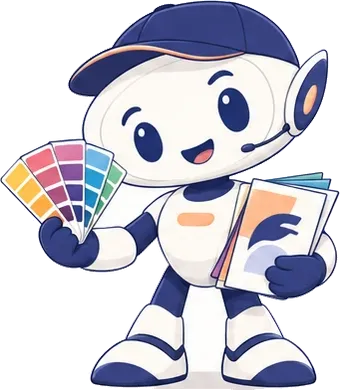
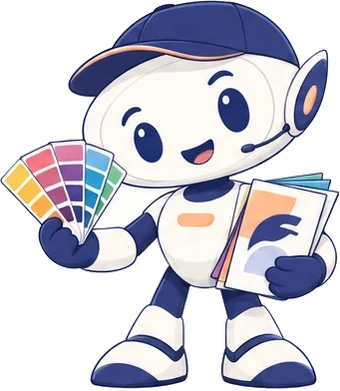
Mascote do Prontyn: recorte entre as pernas e proporção das imagens

diff --git a/scripts/mascote.py b/scripts/mascote.py
@@ -1,0 +1,37 @@
+"""Remove o fundo branco que sobrou entre as pernas do mascote do Prontyn e gera o webp."""
+import sys
+from PIL import Image
+
+src, out = sys.argv[1], sys.argv[2]
+im = Image.open(src).convert("RGBA")
+W, H = im.size
+px = im.load()
+
+def claro(p, lim):
+    r, g, b, a = p
+    return a > 0 and min(r, g, b) > lim and max(r, g, b) - min(r, g, b) < 28
+
+# preenche a partir de um ponto entre as pernas, pegando branco e cinza bem claro (sombra do fundo)
+seed = (205, 330)
+assert claro(px[seed], 200), px[seed]
+st, area = [seed], {seed}
+while st:
+    x, y = st.pop()
+    for n in ((x + 1, y), (x - 1, y), (x, y + 1), (x, y - 1)):
+        if 0 <= n[0] < W and 0 <= n[1] < H and n not in area and claro(px[n], 196):
+            area.add(n); st.append(n)
+for x, y in area:
+    r, g, b, a = px[x, y]
+    px[x, y] = (r, g, b, 0)
+# borda: pixels de antialias encostados na área viram semitransparentes, sem halo branco
+for x, y in list(area):
+    for n in ((x + 1, y), (x - 1, y), (x, y + 1), (x, y - 1)):
+        if 0 <= n[0] < W and 0 <= n[1] < H and n not in area:
+            r, g, b, a = px[n]
+            luz = min(r, g, b)
+            if luz > 150 and a > 0:
+                k = (luz - 150) / 105  # quanto mais claro, mais transparente
+                px[n] = (r, g, b, int(a * (1 - 0.85 * k)))
+print(len(area), "pixels removidos")
+w = 340
+im.resize((w, round(H * w / W)), Image.LANCZOS).save(out, quality=88)
